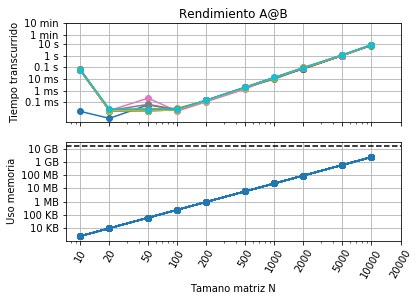
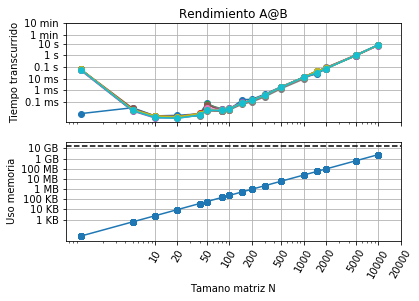
Add files via upload

diff --git a/Visualizacion.py b/Visualizacion.py
@@ -1,3 +1,9 @@
+# -*- coding: utf-8 -*-
+"""
+Created on Thu Aug  5 16:02:23 2021
+
+@author: aleki
+"""
 from numpy import zeros, float64
 from time import perf_counter
 import matplotlib.pylab as plt
@@ -13,7 +19,8 @@ for i in lectura:
     Tiempotxt.append(float(valores[1]))
     Ntxt.append(float(valores[2]))
 lectura.close()
-
+a=len(Ntxt)/10
+a=int(a)
 
 #Graficar
 xlabels= ["10","20","50","100","200","500","1000","2000","5000","10000","20000"]
@@ -28,7 +35,7 @@ plt.figure(1)
 plt.subplot(2,1,1)
 plt.title("Rendimiento A@B")
 for i in range(10):
-    plt.loglog(Ntxt[10*i:10*i+10],Tiempotxt[10*i:10*i+10], marker="o")
+    plt.loglog(Ntxt[a*i:a*i+a],Tiempotxt[a*i:a*i+a], marker="o")
 plt.xticks(xN,xlabels, rotation=60, visible=False)
 plt.grid(True)
 plt.yticks(ytiempoT,ytiempolabels)

diff --git a/timing_matmul.py b/timing_matmul.py
@@ -1,7 +1,7 @@
 from numpy import zeros, float64
 from time import perf_counter
 import matplotlib.pylab as plt
-N=[10,20,50,100,200,500,1000,2000,5000,10000] #,2000,5000,10000
+N=[1,5,10,20,40,50,80,100,150,200,300,500,1000,1500,2000,5000,10000] #,2000,5000,10000
 
 UsoMemoria=[]
 UsoTiempo=[]
